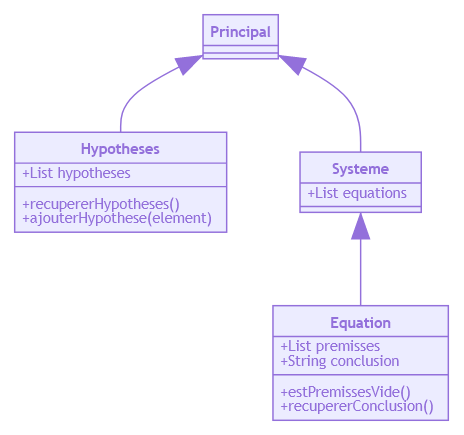
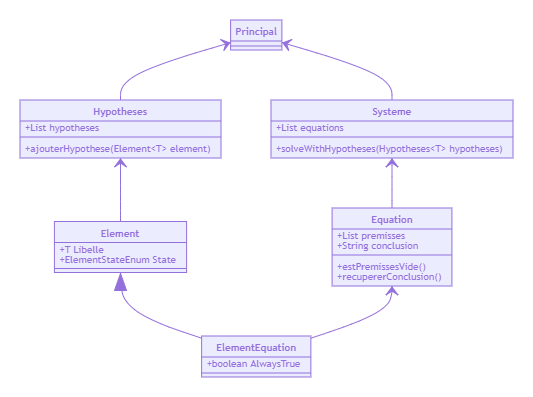
[UPD] Class diagram

diff --git a/README.md b/README.md
@@ -88,37 +88,6 @@ Hypothèses:
 
 ![Diagramme de classe](./documentations/classDiagram.png)
 
-```mermaid
-classDiagram
-    Principal <-- Hypotheses
-    Principal <-- Systeme
-    Systeme <-- Equation
-    Element <|-- ElementEquation
-    Hypotheses <-- Element
-    Equation <-- ElementEquation
-    class Equation {
-        +List premisses
-        +String conclusion
-        +estPremissesVide()
-        +recupererConclusion()
-    }
-    class Systeme {
-        +List equations
-        +solveWithHypotheses(Hypotheses<T> hypotheses)
-    }
-    class Hypotheses {
-        +List hypotheses
-        +ajouterHypothese(Element<T> element)
-    }
-    class Element {
-        +T Libelle
-        +ElementStateEnum State
-    }
-    class ElementEquation {
-        +boolean AlwaysTrue
-    }
-```
-
 ---
 
 ## 1.6. Utilisation de l'executable de la version 1.0.0
